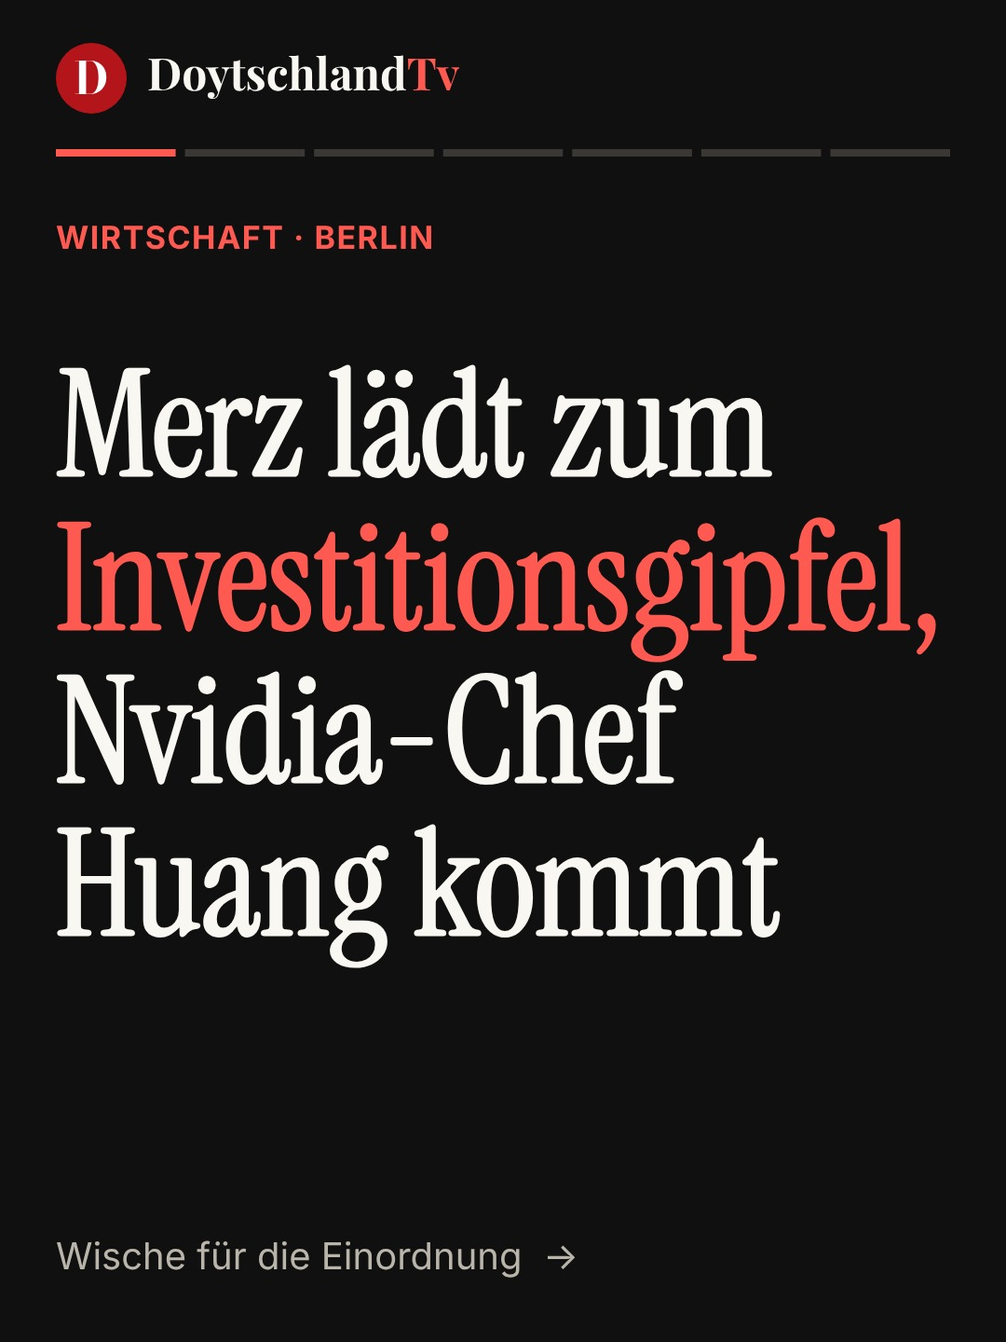
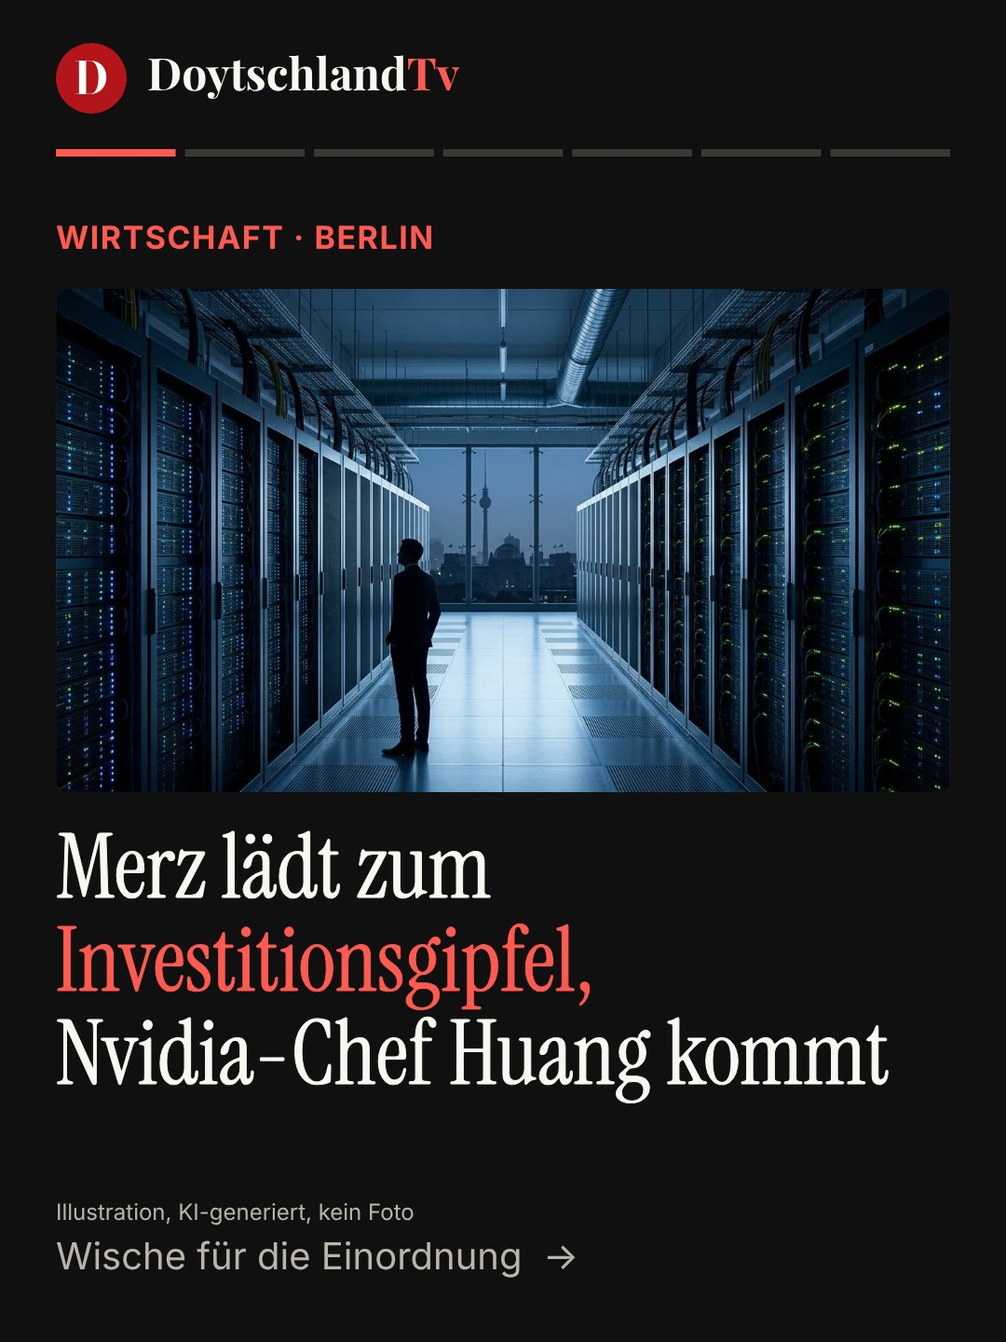
Merz-Karussell und Story: Titelbild
Claude-Session: https://claude.ai/code/session_01HADCkE2LZJHKQCUdz9XwMJ

diff --git a/beitrag/2026-10-19-merz-laedt-zum-investitionsgipfel-nvidia-chef-huang-kommt.html b/beitrag/2026-10-19-merz-laedt-zum-investitionsgipfel-nvidia-chef-huang-kommt.html
@@ -5,10 +5,10 @@
 <link rel="canonical" href="https://doytschtv.de/beitrag/2026-10-19-merz-laedt-zum-investitionsgipfel-nvidia-chef-huang-kommt.html">
 <meta name="robots" content="index,follow,max-image-preview:large">
 <meta property="og:type" content="article"><meta property="og:site_name" content="DoytschlandTv"><meta property="og:locale" content="de_DE">
-<meta property="og:title" content="Merz lädt zum Investitionsgipfel, Nvidia-Chef Huang kommt"><meta property="og:description" content="Beim ersten „Invest in Germany Summit“ in Berlin werden rund 200 internationale und deutsche Vorstandschefs von Konzernen, Banken und Fonds erwartet…"><meta property="og:url" content="https://doytschtv.de/beitrag/2026-10-19-merz-laedt-zum-investitionsgipfel-nvidia-chef-huang-kommt.html"><meta property="og:image" content="https://doytschtv.de/og-image.png">
-<meta name="twitter:card" content="summary_large_image"><meta name="twitter:title" content="Merz lädt zum Investitionsgipfel, Nvidia-Chef Huang kommt"><meta name="twitter:description" content="Beim ersten „Invest in Germany Summit“ in Berlin werden rund 200 internationale und deutsche Vorstandschefs von Konzernen, Banken und Fonds erwartet…"><meta name="twitter:image" content="https://doytschtv.de/og-image.png">
+<meta property="og:title" content="Merz lädt zum Investitionsgipfel, Nvidia-Chef Huang kommt"><meta property="og:description" content="Beim ersten „Invest in Germany Summit“ in Berlin werden rund 200 internationale und deutsche Vorstandschefs von Konzernen, Banken und Fonds erwartet…"><meta property="og:url" content="https://doytschtv.de/beitrag/2026-10-19-merz-laedt-zum-investitionsgipfel-nvidia-chef-huang-kommt.html"><meta property="og:image" content="https://doytschtv.de/titel-merz.jpg">
+<meta name="twitter:card" content="summary_large_image"><meta name="twitter:title" content="Merz lädt zum Investitionsgipfel, Nvidia-Chef Huang kommt"><meta name="twitter:description" content="Beim ersten „Invest in Germany Summit“ in Berlin werden rund 200 internationale und deutsche Vorstandschefs von Konzernen, Banken und Fonds erwartet…"><meta name="twitter:image" content="https://doytschtv.de/titel-merz.jpg">
 <meta name="theme-color" content="#0b0b10"><link rel="apple-touch-icon" href="/favicon.png">
-<script type="application/ld+json">{"@context": "https://schema.org", "@type": "NewsArticle", "headline": "Merz lädt zum Investitionsgipfel, Nvidia-Chef Huang kommt", "description": "Beim ersten „Invest in Germany Summit“ in Berlin werden rund 200 internationale und deutsche Vorstandschefs von Konzernen, Banken und Fonds erwartet…", "datePublished": "2026-10-19", "dateModified": "2026-10-19", "inLanguage": "de", "mainEntityOfPage": "https://doytschtv.de/beitrag/2026-10-19-merz-laedt-zum-investitionsgipfel-nvidia-chef-huang-kommt.html", "image": ["https://doytschtv.de/og-image.png"], "author": {"@type": "Organization", "name": "DoytschlandTv", "url": "https://doytschtv.de/"}, "publisher": {"@type": "Organization", "name": "DoytschlandTv", "logo": {"@type": "ImageObject", "url": "https://doytschtv.de/favicon.png"}}, "articleSection": "Nachrichten", "keywords": ["doytschlandtv", "aktuell", "merz", "nvidia", "investitionen", "wirtschaft", "einordnung", "nachrichten"]}</script>
+<script type="application/ld+json">{"@context": "https://schema.org", "@type": "NewsArticle", "headline": "Merz lädt zum Investitionsgipfel, Nvidia-Chef Huang kommt", "description": "Beim ersten „Invest in Germany Summit“ in Berlin werden rund 200 internationale und deutsche Vorstandschefs von Konzernen, Banken und Fonds erwartet…", "datePublished": "2026-10-19", "dateModified": "2026-10-19", "inLanguage": "de", "mainEntityOfPage": "https://doytschtv.de/beitrag/2026-10-19-merz-laedt-zum-investitionsgipfel-nvidia-chef-huang-kommt.html", "image": ["https://doytschtv.de/titel-merz.jpg"], "author": {"@type": "Organization", "name": "DoytschlandTv", "url": "https://doytschtv.de/"}, "publisher": {"@type": "Organization", "name": "DoytschlandTv", "logo": {"@type": "ImageObject", "url": "https://doytschtv.de/favicon.png"}}, "articleSection": "Nachrichten", "keywords": ["doytschlandtv", "aktuell", "merz", "nvidia", "investitionen", "wirtschaft", "einordnung", "nachrichten"]}</script>
 <link rel="stylesheet" href="/fonts.css"><link rel="stylesheet" href="/styles.css"><link rel="stylesheet" href="/briefing.css">
 <style>:root{color-scheme:light}body{margin:0}</style><link rel="icon" type="image/png" href="/favicon.png"></head><body>
-<header class="nav"><div class="wrap"><a class="brand" href="/index.html"><span class="mk" aria-hidden="true">D</span><img class="lg-l" src="/logo.png" alt="DoytschlandTv" width="136" height="25"><img class="lg-d" src="/logo-dark.png" alt="DoytschlandTv" width="136" height="25"></a><ul><li><a href="/briefing.html">Briefing</a></li><li><a href="/nachrichten.html" class=on>Nachrichten</a></li><li><a href="/dossiers.html">Dossiers</a></li><li><a href="/meinungen.html">Meinungen</a></li><li><a href="/erklaert.html">Erklärt</a></li><li><a href="/ueber-uns.html">Über uns</a></li></ul><span class="nav-so"><a href="https://www.instagram.com/doytschlandtv/" target="_blank" rel="noopener" aria-label="DoytschlandTv auf Instagram"><svg viewBox="0 0 24 24" fill="none" stroke="currentColor" stroke-width="2" stroke-linecap="round" aria-hidden="true"><rect x="3" y="3" width="18" height="18" rx="5"/><circle cx="12" cy="12" r="4.2"/><circle cx="17.3" cy="6.7" r=".6" fill="currentColor"/></svg></a><a href="https://www.tiktok.com/@doytschlandtv" target="_blank" rel="noopener" aria-label="DoytschlandTv auf TikTok"><svg viewBox="0 0 24 24" fill="currentColor" aria-hidden="true"><path d="M16.6 5.8A4.3 4.3 0 0 1 15.5 3h-3.1v12.4a2.6 2.6 0 1 1-1.8-2.5V9.7a5.7 5.7 0 1 0 4.9 5.7V9a7.3 7.3 0 0 0 4.3 1.4V7.3a4.3 4.3 0 0 1-3.2-1.5z"/></svg></a></span></div></header><main><div class="wrap"><article class="kol"><p class="b-eyebrow">Nachrichten · Wirtschaft · Berlin</p><h1 class="mk-h1">Merz lädt zum Investitionsgipfel, Nvidia-Chef Huang kommt</h1><p class="mk-meta">19. Oktober 2026</p><h2>Der Gipfel</h2><p><strong>200 Chefs, ein Stargast.</strong></p><p>Beim ersten „Invest in Germany Summit“ in Berlin werden rund 200 internationale und deutsche Vorstandschefs von Konzernen, Banken und Fonds erwartet. Merz, Vizekanzler Klingbeil und das halbe Kabinett sind dabei. Die Regierung will mehr privates Kapital mobilisieren, Stargast ist Nvidia-Chef Jensen Huang.</p><h2>Die Nvidia-Partnerschaft</h2><p><strong>dreistelliger Millionenbetrag</strong> will die Bundesregierung laut Handelsblatt in „Physical AI“ stecken: Roboter, autonome Fahrzeuge, automatisierte Fabriken, teils für Rechenkapazität in der KI-Cloud der Telekom. Nvidia schickt Ingenieure und Chips. Rund zwölf Unternehmen sollen mitmachen, darunter Siemens und Audi.</p><h2>Die Ausgangslage</h2><p><strong>−6,4 %</strong> sind Deutschlands Investitionen von 2019 bis 2025 gefallen. Im übrigen Euroraum stiegen sie um 6,7 Prozent, in den USA um 20,2 Prozent. Als Gründe nennt Allianz Research hohe Energiekosten, Steuern und Abgaben, Bürokratie und hohe Finanzierungskosten.</p><h2>Die Abhängigkeit</h2><p><strong>Eine Frage der Souveränität</strong></p><p>Eine enge Bindung an einen US-Konzern wirft Fragen digitaler Souveränität auf. Huang sagt, entscheidend sei nicht, wer die Hardware baut, sondern wer Daten und Anwendungen kontrolliert, und was auf den Systemen laufe, solle in Deutschland genutzt werden. Das ist Huangs eigene Aussage.</p><h2>Unsere Meinung</h2><p>Ein Gipfel ersetzt keine Standortpolitik. Solange Energiepreise, Genehmigungen und Bürokratie Investitionen bremsen, bleibt er Symbolpolitik. Und wer KI-Infrastruktur an einen US-Konzern bindet, macht sich von dessen Chips und Preisen abhängig.</p><h2>Was meinst du?</h2><p><strong>Wie viel Abhängigkeit von US-Technologiekonzernen ist für Deutschland vertretbar?</strong></p><h2>Quellen</h2><ul><li>t-online (dpa), 19.10.2026</li><li>ZDFheute (Handelsblatt), 19.10.2026</li><li>Allianz Research, 16.10.2026</li><li>ZDFheute, 19.10.2026</li></ul><p><a href="/nachrichten.html">Alle Karussells ansehen ›</a></p><p class="mk-meta">Fakten sind mit Quellen belegt, Meinung ist als „Unsere Meinung“ gekennzeichnet.</p></article></div></main><footer><div class="wrap"><span>© DoytschlandTv</span><span><a href="/impressum.html">Impressum</a> · <a href="/datenschutz.html">Datenschutz</a></span></div></footer></body></html>
+<header class="nav"><div class="wrap"><a class="brand" href="/index.html"><span class="mk" aria-hidden="true">D</span><img class="lg-l" src="/logo.png" alt="DoytschlandTv" width="136" height="25"><img class="lg-d" src="/logo-dark.png" alt="DoytschlandTv" width="136" height="25"></a><ul><li><a href="/briefing.html">Briefing</a></li><li><a href="/nachrichten.html" class=on>Nachrichten</a></li><li><a href="/dossiers.html">Dossiers</a></li><li><a href="/meinungen.html">Meinungen</a></li><li><a href="/erklaert.html">Erklärt</a></li><li><a href="/ueber-uns.html">Über uns</a></li></ul><span class="nav-so"><a href="https://www.instagram.com/doytschlandtv/" target="_blank" rel="noopener" aria-label="DoytschlandTv auf Instagram"><svg viewBox="0 0 24 24" fill="none" stroke="currentColor" stroke-width="2" stroke-linecap="round" aria-hidden="true"><rect x="3" y="3" width="18" height="18" rx="5"/><circle cx="12" cy="12" r="4.2"/><circle cx="17.3" cy="6.7" r=".6" fill="currentColor"/></svg></a><a href="https://www.tiktok.com/@doytschlandtv" target="_blank" rel="noopener" aria-label="DoytschlandTv auf TikTok"><svg viewBox="0 0 24 24" fill="currentColor" aria-hidden="true"><path d="M16.6 5.8A4.3 4.3 0 0 1 15.5 3h-3.1v12.4a2.6 2.6 0 1 1-1.8-2.5V9.7a5.7 5.7 0 1 0 4.9 5.7V9a7.3 7.3 0 0 0 4.3 1.4V7.3a4.3 4.3 0 0 1-3.2-1.5z"/></svg></a></span></div></header><main><div class="wrap"><article class="kol"><p class="b-eyebrow">Nachrichten · Wirtschaft · Berlin</p><h1 class="mk-h1">Merz lädt zum Investitionsgipfel, Nvidia-Chef Huang kommt</h1><p class="mk-meta">19. Oktober 2026</p><figure style="margin:1rem 0"><img src="/titel-merz.jpg" alt="Merz lädt zum Investitionsgipfel, Nvidia-Chef Huang kommt" style="width:100%;height:auto;border-radius:1rem" loading="lazy"><figcaption class="mk-meta">Illustration, KI-generiert, kein Foto</figcaption></figure><h2>Der Gipfel</h2><p><strong>200 Chefs, ein Stargast.</strong></p><p>Beim ersten „Invest in Germany Summit“ in Berlin werden rund 200 internationale und deutsche Vorstandschefs von Konzernen, Banken und Fonds erwartet. Merz, Vizekanzler Klingbeil und das halbe Kabinett sind dabei. Die Regierung will mehr privates Kapital mobilisieren, Stargast ist Nvidia-Chef Jensen Huang.</p><h2>Die Nvidia-Partnerschaft</h2><p><strong>dreistelliger Millionenbetrag</strong> will die Bundesregierung laut Handelsblatt in „Physical AI“ stecken: Roboter, autonome Fahrzeuge, automatisierte Fabriken, teils für Rechenkapazität in der KI-Cloud der Telekom. Nvidia schickt Ingenieure und Chips. Rund zwölf Unternehmen sollen mitmachen, darunter Siemens und Audi.</p><h2>Die Ausgangslage</h2><p><strong>−6,4 %</strong> sind Deutschlands Investitionen von 2019 bis 2025 gefallen. Im übrigen Euroraum stiegen sie um 6,7 Prozent, in den USA um 20,2 Prozent. Als Gründe nennt Allianz Research hohe Energiekosten, Steuern und Abgaben, Bürokratie und hohe Finanzierungskosten.</p><h2>Die Abhängigkeit</h2><p><strong>Eine Frage der Souveränität</strong></p><p>Eine enge Bindung an einen US-Konzern wirft Fragen digitaler Souveränität auf. Huang sagt, entscheidend sei nicht, wer die Hardware baut, sondern wer Daten und Anwendungen kontrolliert, und was auf den Systemen laufe, solle in Deutschland genutzt werden. Das ist Huangs eigene Aussage.</p><h2>Unsere Meinung</h2><p>Ein Gipfel ersetzt keine Standortpolitik. Solange Energiepreise, Genehmigungen und Bürokratie Investitionen bremsen, bleibt er Symbolpolitik. Und wer KI-Infrastruktur an einen US-Konzern bindet, macht sich von dessen Chips und Preisen abhängig.</p><h2>Was meinst du?</h2><p><strong>Wie viel Abhängigkeit von US-Technologiekonzernen ist für Deutschland vertretbar?</strong></p><h2>Quellen</h2><ul><li>t-online (dpa), 19.10.2026</li><li>ZDFheute (Handelsblatt), 19.10.2026</li><li>Allianz Research, 16.10.2026</li><li>ZDFheute, 19.10.2026</li></ul><p><a href="/nachrichten.html">Alle Karussells ansehen ›</a></p><p class="mk-meta">Fakten sind mit Quellen belegt, Meinung ist als „Unsere Meinung“ gekennzeichnet.</p></article></div></main><footer><div class="wrap"><span>© DoytschlandTv</span><span><a href="/impressum.html">Impressum</a> · <a href="/datenschutz.html">Datenschutz</a></span></div></footer></body></html>

diff --git a/index.html b/index.html
@@ -64,7 +64,7 @@
         <h2 id="heute-h">Zuletzt im Blick</h2>
         <p id="heute-datum">19. Oktober 2026</p>
       </div>
-      <div class="hc-wrap"><button class="hc-b" id="hc-prev" type="button" aria-label="Zurück">&lsaquo;</button><div class="hc-rail" id="heute-liste" tabindex="0" aria-label="Schlagzeilen, seitlich wischen"><!--heute--><a class="hc" href="nachrichten.html#Merz%20l%C3%A4dt%20zum%20Investitionsgipfel%2C%20Nvidia-Chef%20Huang%20kommt"><span class="hc-t"><span class="k">Nachrichten · Mo., 19.10.</span><strong>Merz lädt zum Investitionsgipfel, Nvidia-Chef Huang kommt</strong></span></a><a class="hc has-img" href="nachrichten.html#AfD%20will%20Kosten%20und%20Nutzen%20der%20Zuwanderung%20bilanzieren"><span class="hc-i"><img class="bg" src="titel-migration.jpg" alt="" loading="lazy" aria-hidden="true"><img class="fg" src="titel-migration.jpg" alt="" loading="lazy"></span><span class="hc-t"><span class="k">Nachrichten · Mo., 19.10.</span><strong>AfD will Kosten und Nutzen der Zuwanderung bilanzieren</strong><small>Illustration, KI-generiert, kein Foto</small></span></a><a class="hc has-img" href="nachrichten.html#Frankreich%3A%20Macron%20droht%20mit%20Demonstrationsverboten"><span class="hc-i"><img class="bg" src="titel-macron.jpg" alt="" loading="lazy" aria-hidden="true"><img class="fg" src="titel-macron.jpg" alt="" loading="lazy"></span><span class="hc-t"><span class="k">Nachrichten · Mo., 19.10.</span><strong>Frankreich: Macron droht mit Demonstrationsverboten</strong><small>Illustration, KI-generiert, kein Foto</small></span></a><a class="hc has-img" href="nachrichten.html#%E2%80%9EEuropa%20brennt%E2%80%9C%3F%20Was%20die%20viralen%20Bilder%20zeigen%20und%20was%20nicht"><span class="hc-i"><img class="bg" src="titel-europa.jpg" alt="" loading="lazy" aria-hidden="true"><img class="fg" src="titel-europa.jpg" alt="" loading="lazy"></span><span class="hc-t"><span class="k">Nachrichten · Mo., 19.10.</span><strong>„Europa brennt“? Was die viralen Bilder zeigen und was nicht</strong><small>Illustration, KI-generiert, kein Foto</small></span></a><a class="hc has-img" href="nachrichten.html#Morning%20Briefing%2C%20Montag%2C%2019.%20Oktober%202026"><span class="hc-i"><img class="bg" src="titel-morning-briefing.jpg" alt="" loading="lazy" aria-hidden="true"><img class="fg" src="titel-morning-briefing.jpg" alt="" loading="lazy"></span><span class="hc-t"><span class="k">Nachrichten · Mo., 19.10.</span><strong>Morning Briefing, Montag, 19. Oktober 2026</strong><small>Grafik, DoytschlandTv</small></span></a><a class="hc has-img" href="nachrichten.html#Trump%20setzt%20neue%20Russland-Sanktionen%20aus"><span class="hc-i"><img class="bg" src="titel-russland.jpg" alt="" loading="lazy" aria-hidden="true"><img class="fg" src="titel-russland.jpg" alt="" loading="lazy"></span><span class="hc-t"><span class="k">Nachrichten · Mo., 19.10.</span><strong>Trump setzt neue Russland-Sanktionen aus</strong><small>Illustration, KI-generiert, kein Foto</small></span></a><a class="hc has-img" href="nachrichten.html#Berlin%3A%20Linke%2C%20Gr%C3%BCne%20und%20SPD%20wollen%20gro%C3%9Fe%20Wohnungskonzerne%20vergesellschaften"><span class="hc-i"><img class="bg" src="titel-berlin.jpg" alt="" loading="lazy" aria-hidden="true"><img class="fg" src="titel-berlin.jpg" alt="" loading="lazy"></span><span class="hc-t"><span class="k">Nachrichten · Mo., 19.10.</span><strong>Berlin: Linke, Grüne und SPD wollen große Wohnungskonzerne vergesellschaften</strong><small>Illustration, KI-generiert, kein Foto</small></span></a><a class="hc" href="nachrichten.html#Morning%20Briefing%2C%20Sonntag%2C%2018.%20Oktober%202026"><span class="hc-t"><span class="k">Nachrichten · So., 18.10.</span><strong>Morning Briefing, Sonntag, 18. Oktober 2026</strong></span></a><a class="hc has-img" href="nachrichten.html#Frankreich%3A%20Landesweiter%20Protesttag%20endet%20mit%20schweren%20Krawallen"><span class="hc-i"><img class="bg" src="titel-frankreich.jpg" alt="" loading="lazy" aria-hidden="true"><img class="fg" src="titel-frankreich.jpg" alt="" loading="lazy"></span><span class="hc-t"><span class="k">Nachrichten · So., 18.10.</span><strong>Frankreich: Landesweiter Protesttag endet mit schweren Krawallen</strong><small>Illustration, KI-generiert, kein Foto</small></span></a><a class="hc has-img" href="nachrichten.html#WDR%20will%20sein%20Angebot%20bis%202030%20halbieren"><span class="hc-i"><img class="bg" src="titel-wdr.jpg" alt="" loading="lazy" aria-hidden="true"><img class="fg" src="titel-wdr.jpg" alt="" loading="lazy"></span><span class="hc-t"><span class="k">Nachrichten · So., 18.10.</span><strong>WDR will sein Angebot bis 2030 halbieren</strong><small>Illustration, KI-generiert, kein Foto</small></span></a><a class="hc has-img" href="briefing.html#2026-10-19"><span class="hc-i"><img class="bg" src="titel-briefing.jpg" alt="" loading="lazy" aria-hidden="true"><img class="fg" src="titel-briefing.jpg" alt="" loading="lazy"></span><span class="hc-t"><span class="k">Morning Briefing</span><strong>Frankreich: Nach dem Protesttag rund 2.000 Festnahmen und 4 weitere Themen</strong><small>Illustration, KI-generiert, kein Foto</small></span></a><a class="hc has-img" href="meinungen.html#2026-10-11"><span class="hc-i"><img class="bg" src="kolumne-christ.jpg" alt="" loading="lazy" aria-hidden="true"><img class="fg" src="kolumne-christ.jpg" alt="" loading="lazy"></span><span class="hc-t"><span class="k">Kolumne · Demokratie</span><strong>Selbstauskunft ist keine Kontrolle: Was der Fall Christ über Beratergremien zeigt</strong><small>Illustration, KI-generiert, kein Foto.</small></span></a><a class="hc" href="erklaert.html#schuldenbremse"><span class="hc-t"><span class="k">Erklärt</span><strong>Schuldenbremse und Sondervermögen</strong></span></a><!--/heute--></div><button class="hc-b nx" id="hc-next" type="button" aria-label="Weiter">&rsaquo;</button></div>
+      <div class="hc-wrap"><button class="hc-b" id="hc-prev" type="button" aria-label="Zurück">&lsaquo;</button><div class="hc-rail" id="heute-liste" tabindex="0" aria-label="Schlagzeilen, seitlich wischen"><!--heute--><a class="hc has-img" href="nachrichten.html#Merz%20l%C3%A4dt%20zum%20Investitionsgipfel%2C%20Nvidia-Chef%20Huang%20kommt"><span class="hc-i"><img class="bg" src="titel-merz.jpg" alt="" loading="lazy" aria-hidden="true"><img class="fg" src="titel-merz.jpg" alt="" loading="lazy"></span><span class="hc-t"><span class="k">Nachrichten · Mo., 19.10.</span><strong>Merz lädt zum Investitionsgipfel, Nvidia-Chef Huang kommt</strong><small>Illustration, KI-generiert, kein Foto</small></span></a><a class="hc has-img" href="nachrichten.html#AfD%20will%20Kosten%20und%20Nutzen%20der%20Zuwanderung%20bilanzieren"><span class="hc-i"><img class="bg" src="titel-migration.jpg" alt="" loading="lazy" aria-hidden="true"><img class="fg" src="titel-migration.jpg" alt="" loading="lazy"></span><span class="hc-t"><span class="k">Nachrichten · Mo., 19.10.</span><strong>AfD will Kosten und Nutzen der Zuwanderung bilanzieren</strong><small>Illustration, KI-generiert, kein Foto</small></span></a><a class="hc has-img" href="nachrichten.html#Frankreich%3A%20Macron%20droht%20mit%20Demonstrationsverboten"><span class="hc-i"><img class="bg" src="titel-macron.jpg" alt="" loading="lazy" aria-hidden="true"><img class="fg" src="titel-macron.jpg" alt="" loading="lazy"></span><span class="hc-t"><span class="k">Nachrichten · Mo., 19.10.</span><strong>Frankreich: Macron droht mit Demonstrationsverboten</strong><small>Illustration, KI-generiert, kein Foto</small></span></a><a class="hc has-img" href="nachrichten.html#%E2%80%9EEuropa%20brennt%E2%80%9C%3F%20Was%20die%20viralen%20Bilder%20zeigen%20und%20was%20nicht"><span class="hc-i"><img class="bg" src="titel-europa.jpg" alt="" loading="lazy" aria-hidden="true"><img class="fg" src="titel-europa.jpg" alt="" loading="lazy"></span><span class="hc-t"><span class="k">Nachrichten · Mo., 19.10.</span><strong>„Europa brennt“? Was die viralen Bilder zeigen und was nicht</strong><small>Illustration, KI-generiert, kein Foto</small></span></a><a class="hc has-img" href="nachrichten.html#Morning%20Briefing%2C%20Montag%2C%2019.%20Oktober%202026"><span class="hc-i"><img class="bg" src="titel-morning-briefing.jpg" alt="" loading="lazy" aria-hidden="true"><img class="fg" src="titel-morning-briefing.jpg" alt="" loading="lazy"></span><span class="hc-t"><span class="k">Nachrichten · Mo., 19.10.</span><strong>Morning Briefing, Montag, 19. Oktober 2026</strong><small>Grafik, DoytschlandTv</small></span></a><a class="hc has-img" href="nachrichten.html#Trump%20setzt%20neue%20Russland-Sanktionen%20aus"><span class="hc-i"><img class="bg" src="titel-russland.jpg" alt="" loading="lazy" aria-hidden="true"><img class="fg" src="titel-russland.jpg" alt="" loading="lazy"></span><span class="hc-t"><span class="k">Nachrichten · Mo., 19.10.</span><strong>Trump setzt neue Russland-Sanktionen aus</strong><small>Illustration, KI-generiert, kein Foto</small></span></a><a class="hc has-img" href="nachrichten.html#Berlin%3A%20Linke%2C%20Gr%C3%BCne%20und%20SPD%20wollen%20gro%C3%9Fe%20Wohnungskonzerne%20vergesellschaften"><span class="hc-i"><img class="bg" src="titel-berlin.jpg" alt="" loading="lazy" aria-hidden="true"><img class="fg" src="titel-berlin.jpg" alt="" loading="lazy"></span><span class="hc-t"><span class="k">Nachrichten · Mo., 19.10.</span><strong>Berlin: Linke, Grüne und SPD wollen große Wohnungskonzerne vergesellschaften</strong><small>Illustration, KI-generiert, kein Foto</small></span></a><a class="hc" href="nachrichten.html#Morning%20Briefing%2C%20Sonntag%2C%2018.%20Oktober%202026"><span class="hc-t"><span class="k">Nachrichten · So., 18.10.</span><strong>Morning Briefing, Sonntag, 18. Oktober 2026</strong></span></a><a class="hc has-img" href="nachrichten.html#Frankreich%3A%20Landesweiter%20Protesttag%20endet%20mit%20schweren%20Krawallen"><span class="hc-i"><img class="bg" src="titel-frankreich.jpg" alt="" loading="lazy" aria-hidden="true"><img class="fg" src="titel-frankreich.jpg" alt="" loading="lazy"></span><span class="hc-t"><span class="k">Nachrichten · So., 18.10.</span><strong>Frankreich: Landesweiter Protesttag endet mit schweren Krawallen</strong><small>Illustration, KI-generiert, kein Foto</small></span></a><a class="hc has-img" href="nachrichten.html#WDR%20will%20sein%20Angebot%20bis%202030%20halbieren"><span class="hc-i"><img class="bg" src="titel-wdr.jpg" alt="" loading="lazy" aria-hidden="true"><img class="fg" src="titel-wdr.jpg" alt="" loading="lazy"></span><span class="hc-t"><span class="k">Nachrichten · So., 18.10.</span><strong>WDR will sein Angebot bis 2030 halbieren</strong><small>Illustration, KI-generiert, kein Foto</small></span></a><a class="hc has-img" href="briefing.html#2026-10-19"><span class="hc-i"><img class="bg" src="titel-briefing.jpg" alt="" loading="lazy" aria-hidden="true"><img class="fg" src="titel-briefing.jpg" alt="" loading="lazy"></span><span class="hc-t"><span class="k">Morning Briefing</span><strong>Frankreich: Nach dem Protesttag rund 2.000 Festnahmen und 4 weitere Themen</strong><small>Illustration, KI-generiert, kein Foto</small></span></a><a class="hc has-img" href="meinungen.html#2026-10-11"><span class="hc-i"><img class="bg" src="kolumne-christ.jpg" alt="" loading="lazy" aria-hidden="true"><img class="fg" src="kolumne-christ.jpg" alt="" loading="lazy"></span><span class="hc-t"><span class="k">Kolumne · Demokratie</span><strong>Selbstauskunft ist keine Kontrolle: Was der Fall Christ über Beratergremien zeigt</strong><small>Illustration, KI-generiert, kein Foto.</small></span></a><a class="hc" href="erklaert.html#schuldenbremse"><span class="hc-t"><span class="k">Erklärt</span><strong>Schuldenbremse und Sondervermögen</strong></span></a><!--/heute--></div><button class="hc-b nx" id="hc-next" type="button" aria-label="Weiter">&rsaquo;</button></div>
     </div>
   </section>
 

diff --git a/briefings.js b/briefings.js
@@ -483,7 +483,12 @@ window.BRIEFINGS = [
       "typ": "hook",
       "kicker": "Wirtschaft · Berlin",
       "titel": "Merz lädt zum Investitionsgipfel, Nvidia-Chef Huang kommt",
-      "rot": "Investitionsgipfel"
+      "rot": "Investitionsgipfel",
+      "bild": {
+       "url": "titel-merz.jpg",
+       "fokus": 0.5,
+       "unter": "Illustration, KI-generiert, kein Foto"
+      }
      },
      {
       "typ": "fakten",
@@ -625,7 +630,12 @@ window.BRIEFINGS = [
     "rot": "Investitionen fehlen",
     "text": "Zahlen, Partnerschaft und Abhängigkeit, im Karussell, Link in der Bio.",
     "quelle": "t-online (dpa); ZDFheute; Allianz Research, 16.–19.10.2026",
-    "theme": "dark"
+    "theme": "dark",
+    "bild": {
+     "url": "titel-merz.jpg",
+     "fokus": 0.5,
+     "unter": "Illustration, KI-generiert, kein Foto"
+    }
    }
   ]
  },
